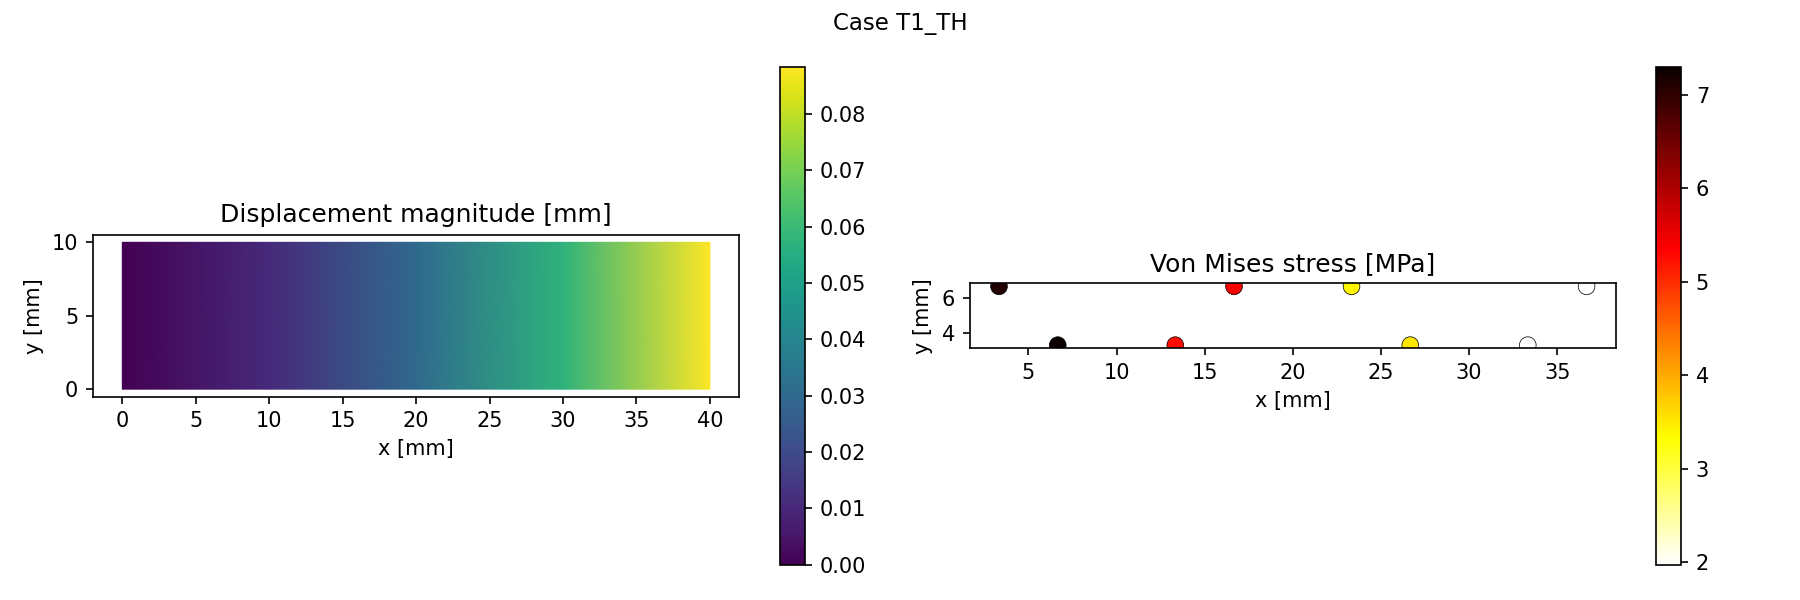
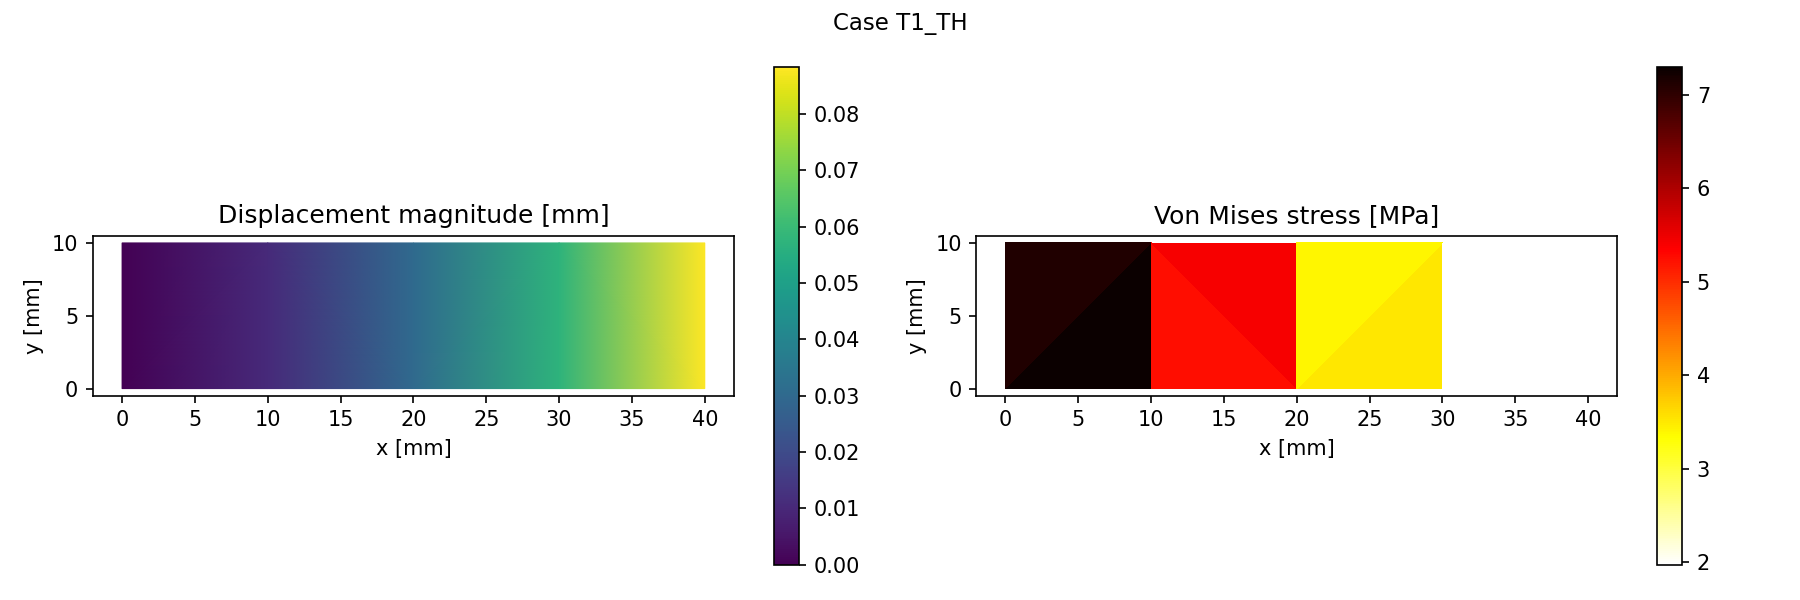
sec 2.1.2: replace Von Mises scatter with flat-shaded tripcolor fill

diff --git a/sec_02/2.1/2/fem_plane_stress_beam.py b/sec_02/2.1/2/fem_plane_stress_beam.py
@@ -1441,17 +1441,23 @@ def plot_case(
     ax0.set_xlabel("x [mm]")
     ax0.set_ylabel("y [mm]")
 
-    # Von Mises stress (element-centred)
+    # Von Mises stress - flat-shaded element fill (same side-view as displacement plot)
     ax1 = axes[1]
     ax1.set_title("Von Mises stress [MPa]")
     ax1.set_aspect("equal")
 
-    cx = result.element_centers[:, 0]
-    cy = result.element_centers[:, 1]
     vm = result.von_mises
-
-    scatter = ax1.scatter(cx, cy, c=vm, cmap="hot_r", s=64, edgecolors="black", linewidths=0.35)
-    plt.colorbar(scatter, ax=ax1)
+    stress_triangles = build_plot_triangles(mesh)
+    stress_triang = Triangulation(
+        mesh.nodes[:, 0], mesh.nodes[:, 1], triangles=stress_triangles
+    )
+    # Quad elements are split into 2 triangles each; tri elements map 1:1.
+    if mesh.tri_elements is not None:
+        vm_per_tri = vm
+    else:
+        vm_per_tri = np.repeat(vm, 2)
+    tc1 = ax1.tripcolor(stress_triang, facecolors=vm_per_tri, cmap="hot_r")
+    plt.colorbar(tc1, ax=ax1)
     ax1.set_xlabel("x [mm]")
     ax1.set_ylabel("y [mm]")
 
